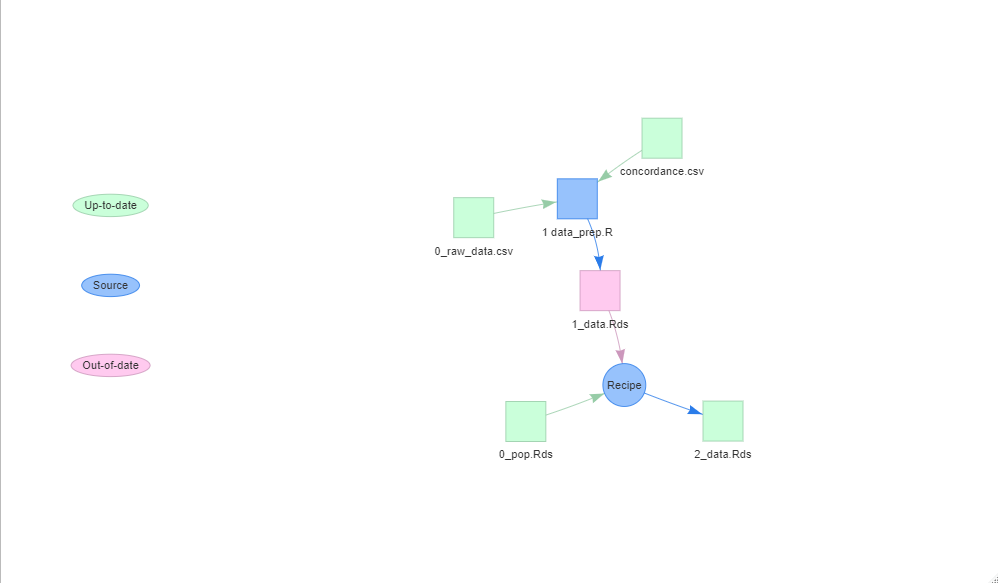
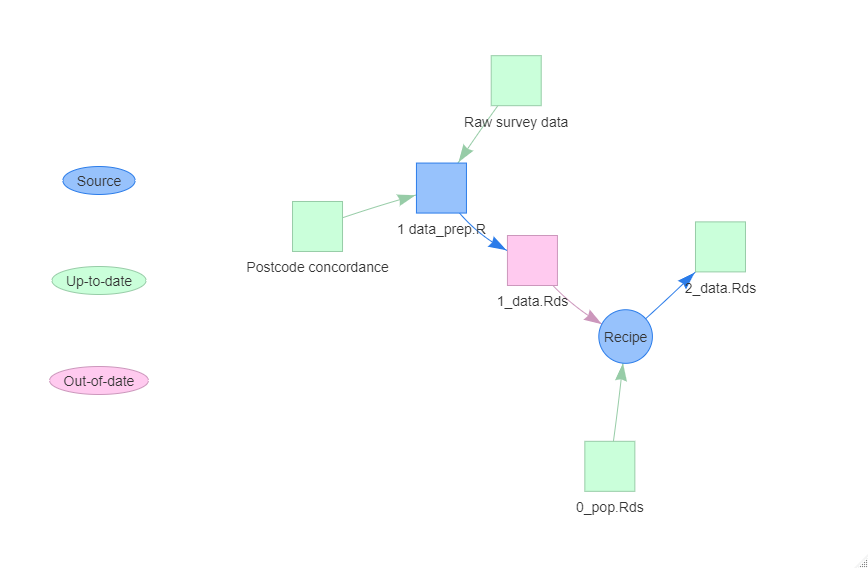
Enhance pipeline visualisation
* Allow user to supply tooltips and labels for pipeline visualisations (closes #1)
* Implement method for writing out pipeline
* Update README to display new functionality

diff --git a/README.md b/README.md
@@ -22,9 +22,17 @@ You can install the development version from
 devtools::install_github("kinto-b/piper")
 ```
 
-## Example
+## Building a pipeline
 
-This is a basic example which shows you how to solve a common problem:
+To construct a pipeline, one simply needs to chain together a number of
+`make_with_*()` statements. When the pipeline is run through, each
+`make_with_*()` block is evaluated if and only if the `targets` are
+out-of-date with respect to the `dependencies` (and `source` file). But,
+whether or not the block is evaluated, a segment will be added to the
+Pipeline object behind the scenes. At the end of the script, once the
+entire pipeline has been run through, one can display the accumulated
+Pipeline object to produce a flow-chart visualisation of the pipeline.
+For example:
 
 ``` r
 library(piper)
@@ -40,7 +48,10 @@ make_with_recipe(
     },
     targets = c("scratch/data/2_data.Rds")
 )
-show_pipeline()
+show_pipeline(labels = c(
+  "scratch/lookup/concordance.csv" = "Postcode concordance",
+  "scratch/data/0_raw_data.csv" = "Raw survey data"
+))
 ```
 
 <img src="man/figures/README-example_pipeline.png" width="75%" style="display: block; margin: auto;" />
